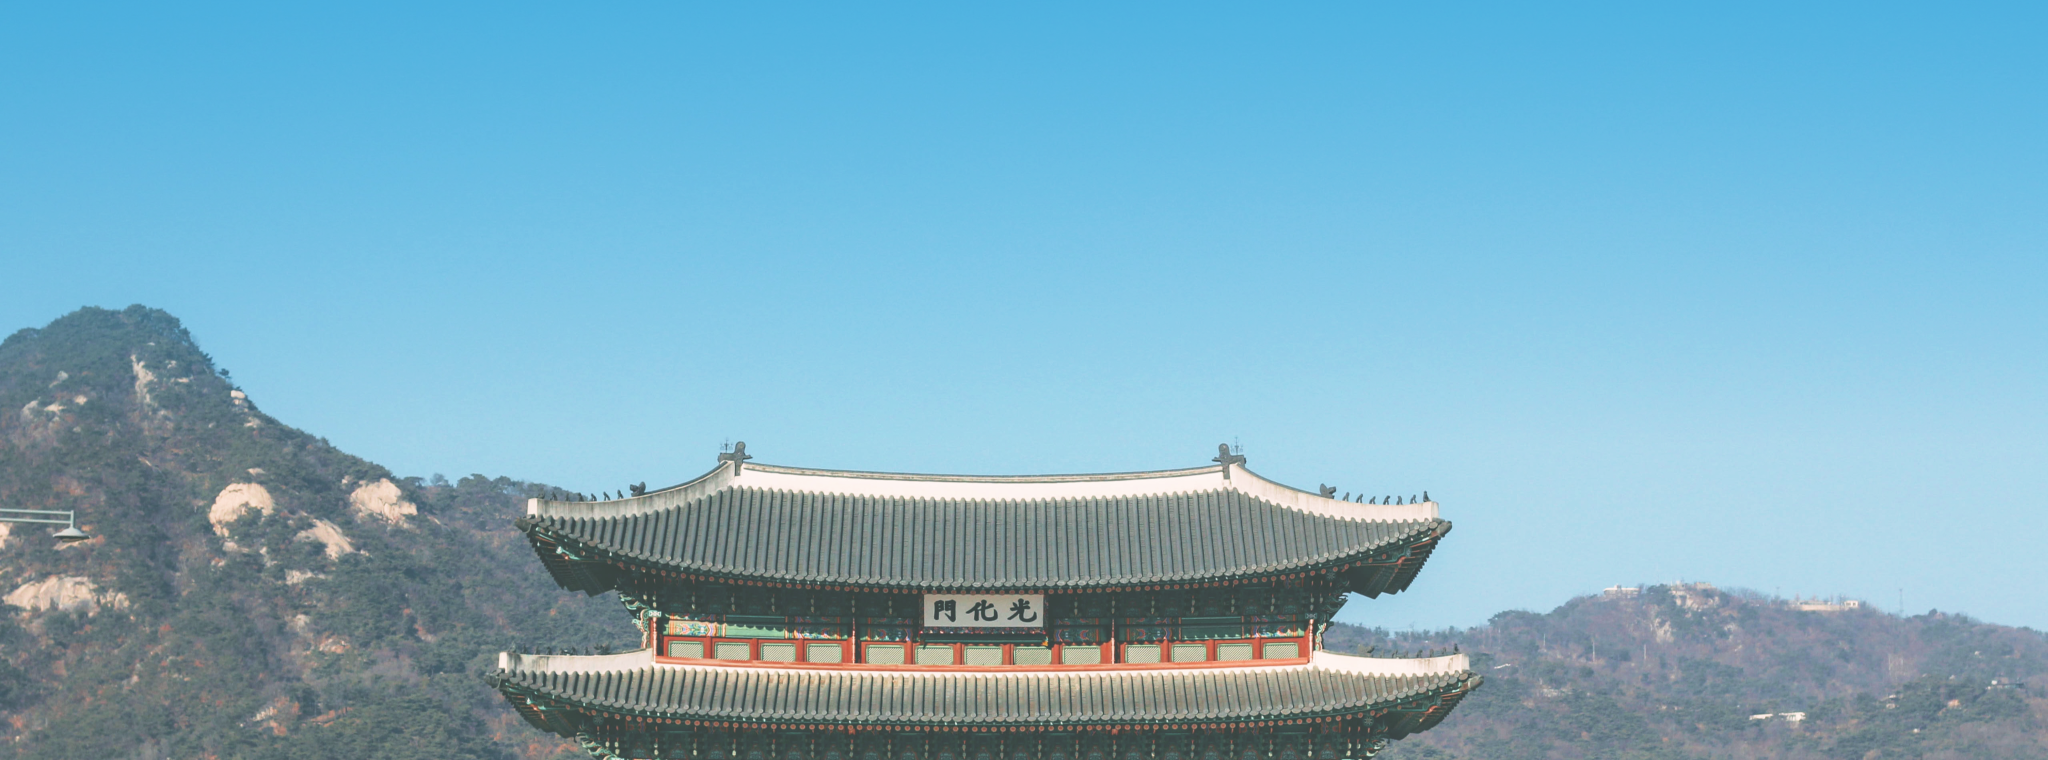
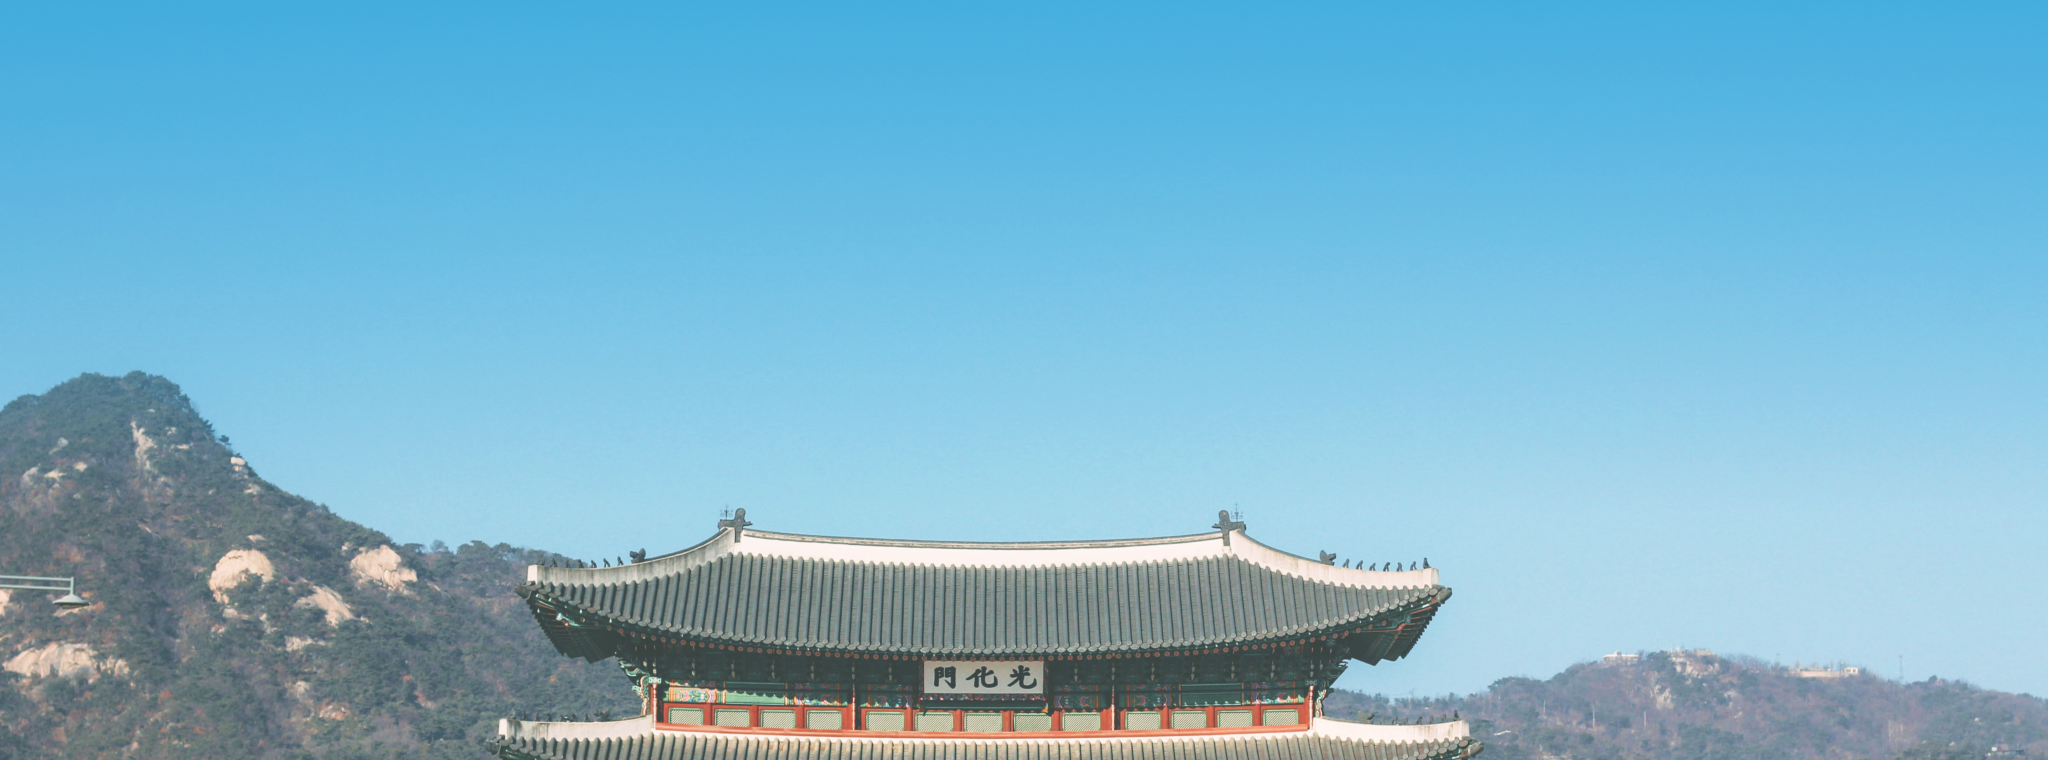
fix. 랜딩 페이지 수정

Changed region(s): [[0.0, 0.3934, 1.0, 1.0]]

diff --git a/src/components/view/browserPage/index.tsx b/src/components/view/browserPage/index.tsx
@@ -4,8 +4,8 @@ import { useStore } from 'stores';
 import BrowserPageFooter from './BrowserPageFooter';
 import Content from './Content';
 import { ReactComponent as Logo } from 'assets/icons/logo-filled-icon.svg';
-import appStore from 'assets/browserPage/app-store.png';
-import googlePlay from 'assets/browserPage/google-play.png';
+// import appStore from 'assets/browserPage/app-store.png';
+// import googlePlay from 'assets/browserPage/google-play.png';
 import content1 from 'assets/browserPage/content-image-1.png';
 import content2 from 'assets/browserPage/content-image-2.png';
 import content3 from 'assets/browserPage/content-image-3.png';
@@ -16,6 +16,7 @@ import chatIcon from 'assets/browserPage/chat.svg';
 import { palette } from 'constants/';
 
 export type ContentPropsType = {
+  idx: number;
   headerLogo: string;
   title: string;
   content: string;
@@ -30,16 +31,18 @@ const BrowserPage = () => {
   const device = screenWidth < 768 ? 'mobile' : screenWidth < 1024 ? 'tablet' : 'pc';
   const bgImage = require(`assets/browserPage/${device}-header-bg.png`);
 
-  const handleAppleClick = () => {
-    window.open(
-      'https://apps.apple.com/us/app/%EC%99%80%EA%B8%80%EC%99%80%EA%B8%80-wagglewaggle/id1672827485',
-      '_blank'
-    );
-  };
+  // 앱 출시 후 아래 기능 활성화
+  // const handleAppleClick = () => {
+  //   window.open(
+  //     'https://apps.apple.com/us/app/%EC%99%80%EA%B8%80%EC%99%80%EA%B8%80-wagglewaggle/id1672827485',
+  //     '_blank'
+  //   );
+  // };
 
-  const handleGoogleClick = () => {
-    window.open('https://play.google.com/store/apps/details?id=com.exit.wagglewaggle', '_blank');
-  };
+  // 앱 출시 후 아래 기능 활성화
+  // const handleGoogleClick = () => {
+  //   window.open('https://play.google.com/store/apps/details?id=com.exit.wagglewaggle', '_blank');
+  // };
 
   return (
     <>
@@ -49,14 +52,24 @@ const BrowserPage = () => {
         <HeaderText device={device}>
           {`지금 그곳의${device === 'mobile' ? '\r\n' : ' '}혼잡도가 궁금하면\r\n와글와글에서`}
         </HeaderText>
-        <ButtonsArea>
+        <Description>
+          {'4월, 새로워진 와글와글로 돌아오겠습니다!\r\nGoogle Play 또는 App Store에서 만나요 :)'}
+        </Description>
+        {/* 앱 출시 후 아래 버튼 활성화 */}
+        {/* <ButtonsArea>
           <AppImage src={appStore} alt='app-store' onClick={handleAppleClick} />
           <AppImage src={googlePlay} alt='google-play' onClick={handleGoogleClick} />
-        </ButtonsArea>
+        </ButtonsArea> */}
       </HeaderWrap>
-      {contents.map((content: Omit<ContentPropsType, 'shadyBackground'>, idx: number) => (
-        <Content {...content} shadyBackground={idx % 2 === 1} key={`content-${content.title}`} />
+      {contents.map((content: Omit<ContentPropsType, 'idx' | 'shadyBackground'>, idx: number) => (
+        <Content
+          {...content}
+          idx={idx}
+          shadyBackground={idx % 2 === 1}
+          key={`content-${content.title}`}
+        />
       ))}
+      <BlankArea />
       <BrowserPageFooter />
     </>
   );
@@ -70,7 +83,7 @@ const HeaderWrap = styled('div', {
   display: 'flex',
   flexDirection: 'column',
   width: `calc(100% - ${device === 'mobile' ? 48 : 112}px)`,
-  maxWidth: 768,
+  maxWidth: 656,
   height: device === 'mobile' ? 780 : 380,
   zIndex: 2,
 }));
@@ -89,7 +102,7 @@ const CustomLogo = styled(Logo)({
 const HeaderText = styled('div', {
   shouldForwardProp: (prop: string) => prop !== 'device',
 })<{ device: 'mobile' | 'tablet' | 'pc' }>(({ device }) => ({
-  margin: `${device === 'mobile' ? 64 : 48}px 0 32px`,
+  margin: `${device === 'mobile' ? 64 : 48}px 0 24px`,
   width: '100%',
   color: palette.white,
   fontSize: 32,
@@ -99,16 +112,27 @@ const HeaderText = styled('div', {
   textAlign: 'center',
 }));
 
-const ButtonsArea = styled('div')({
-  display: 'flex',
-  justifyContent: 'center',
-  gap: 12,
-});
+// 앱 출시 후 아래 기능 활성화
+// const ButtonsArea = styled('div')({
+//   display: 'flex',
+//   justifyContent: 'center',
+//   gap: 12,
+// });
 
-const AppImage = styled('img')({
-  width: 157.5,
-  height: 36,
-  cursor: 'pointer',
+// const AppImage = styled('img')({
+//   width: 157.5,
+//   height: 36,
+//   cursor: 'pointer',
+// });
+
+const Description = styled('div')({
+  width: '100%',
+  color: palette.white,
+  fontSize: 14,
+  fontWeight: 400,
+  lineHeight: '20px',
+  whiteSpace: 'pre-line',
+  textAlign: 'center',
 });
 
 const HeaderImage = styled('img', {
@@ -117,9 +141,16 @@ const HeaderImage = styled('img', {
   position: 'absolute',
   top: 0,
   width: '100%',
+  minWidth: 376,
   height: device === 'mobile' ? 780 : 380,
   zIndex: 1,
 }));
+
+const BlankArea = styled('div')({
+  width: '100%',
+  height: 24,
+  minHeight: 24,
+});
 
 const contents = [
   {

diff --git a/src/components/view/browserPage/Content.tsx b/src/components/view/browserPage/Content.tsx
@@ -5,24 +5,31 @@ import { palette } from 'constants/';
 import { ContentPropsType } from '.';
 
 const Content = (props: ContentPropsType) => {
-  const { headerLogo, title, content, contentImage, subContentImage, shadyBackground } = props;
+  const { idx, headerLogo, title, content, contentImage, subContentImage, shadyBackground } = props;
   const { ScreenSizeStore } = useStore().MobxStore;
   const { screenWidth } = ScreenSizeStore;
   const device = screenWidth < 768 ? 'mobile' : screenWidth < 1024 ? 'tablet' : 'pc';
 
   return (
-    <Wrap shady={shadyBackground} device={device}>
-      <SubWrap>
-        <HeaderLogo src={headerLogo} alt='header' />
-        <TextWrap>
-          <TextTitle>{title}</TextTitle>
-          <TextContent>{content}</TextContent>
-        </TextWrap>
-        {device !== 'mobile' && subContentImage && (
-          <SubContentImage src={subContentImage} alt='sub-content' device={device} />
-        )}
+    <Wrap shady={shadyBackground} device={device} paddingBottom={idx === 1 ? 24 : 44}>
+      <SubWrap device={device}>
+        <ContentWrap>
+          <HeaderLogo src={headerLogo} alt='header' />
+          <TextWrap>
+            <TextTitle>{title}</TextTitle>
+            <TextContent>{content}</TextContent>
+          </TextWrap>
+          {device !== 'mobile' && subContentImage && (
+            <SubContentImage src={subContentImage} alt='sub-content' device={device} />
+          )}
+        </ContentWrap>
+        <ContentImage
+          src={contentImage}
+          alt='content'
+          device={device}
+          height={idx === 0 ? 427 : idx === 1 ? 437 : 478}
+        />
       </SubWrap>
-      <ContentImage src={contentImage} alt='content' device={device} />
     </Wrap>
   );
 };
@@ -30,25 +37,35 @@ const Content = (props: ContentPropsType) => {
 export default observer(Content);
 
 const Wrap = styled('div', {
-  shouldForwardProp: (prop: string) => !['shady', 'device'].includes(prop),
-})<{ shady: boolean; device: 'mobile' | 'tablet' | 'pc' }>(({ shady, device }) => ({
-  display: 'flex',
-  flexDirection: device === 'mobile' ? 'column' : 'row',
-  justifyContent: 'space-between',
-  alignItems: device === 'mobile' ? 'center' : 'flex-start',
-  padding: `56px ${device === 'mobile' ? 24 : 56}px 44px`,
-  width: `calc(100% - ${device === 'mobile' ? 48 : 112}px)`,
-  maxWidth: 768,
-  backgroundColor: shady ? palette.grey[100] : palette.white,
-  zIndex: 0,
-}));
+  shouldForwardProp: (prop: string) => !['shady', 'device', 'paddingBottom'].includes(prop),
+})<{ shady: boolean; device: 'mobile' | 'tablet' | 'pc'; paddingBottom: number }>(
+  ({ shady, device, paddingBottom }) => ({
+    display: 'flex',
+    justifyContent: 'center',
+    padding: `56px ${device === 'mobile' ? 24 : 56}px ${paddingBottom}px`,
+    width: `calc(100% - ${device === 'mobile' ? 48 : 112}px)`,
+    backgroundColor: shady ? palette.grey[100] : palette.white,
+    zIndex: 0,
+  })
+);
 
 const HeaderLogo = styled('img')({
   width: 48,
   height: 48,
 });
 
-const SubWrap = styled('div')({
+const SubWrap = styled('div', {
+  shouldForwardProp: (prop: string) => prop !== 'device',
+})<{ device: 'mobile' | 'tablet' | 'pc' }>(({ device }) => ({
+  display: 'flex',
+  flexDirection: device === 'mobile' ? 'column' : 'row',
+  justifyContent: 'space-between',
+  alignItems: device === 'mobile' ? 'center' : 'flex-start',
+  width: '100%',
+  maxWidth: 656,
+}));
+
+const ContentWrap = styled('div')({
   display: 'flex',
   flexDirection: 'column',
 });
@@ -76,11 +93,11 @@ const TextContent = styled('div')({
 });
 
 const ContentImage = styled('img', {
-  shouldForwardProp: (prop: string) => prop !== 'device',
-})<{ device: 'mobile' | 'tablet' | 'pc' }>(({ device }) => ({
-  marginTop: device === 'mobile' ? 32 : 120,
+  shouldForwardProp: (prop: string) => !['device', 'height'].includes(prop),
+})<{ device: 'mobile' | 'tablet' | 'pc'; height: number }>(({ device, height }) => ({
+  marginTop: device === 'mobile' ? 32 : 64,
   width: 327,
-  height: 427,
+  height,
 }));
 
 const SubContentImage = styled('img', {
